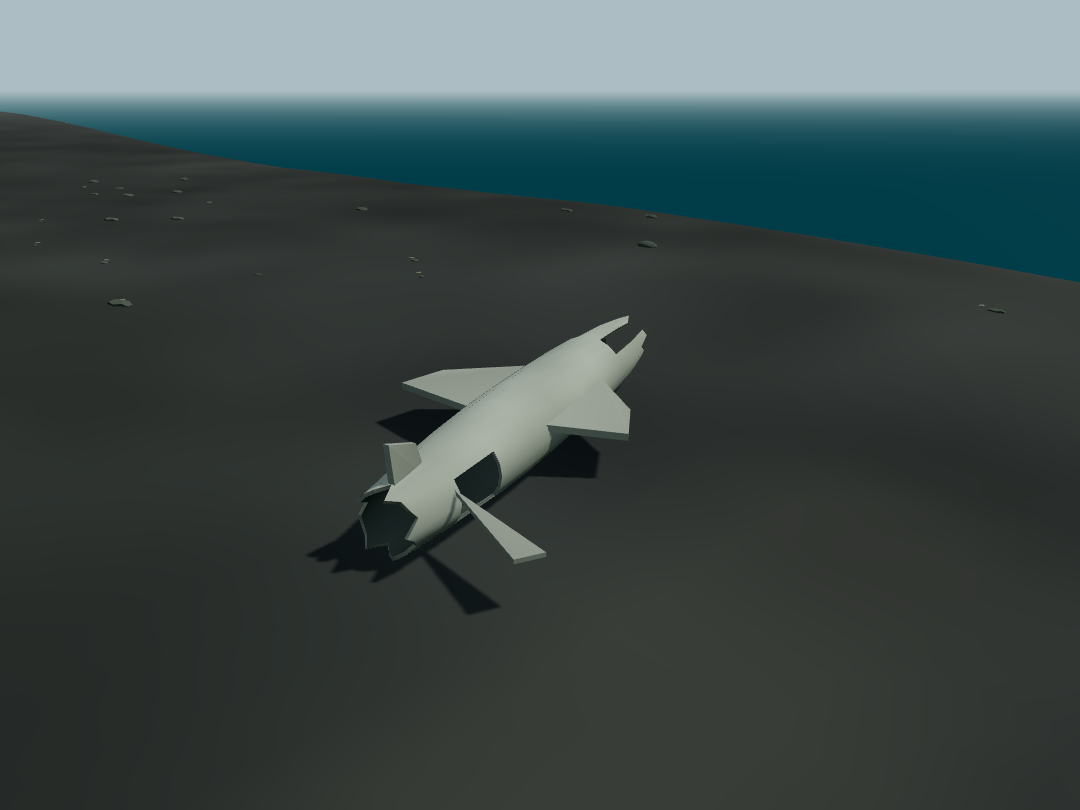
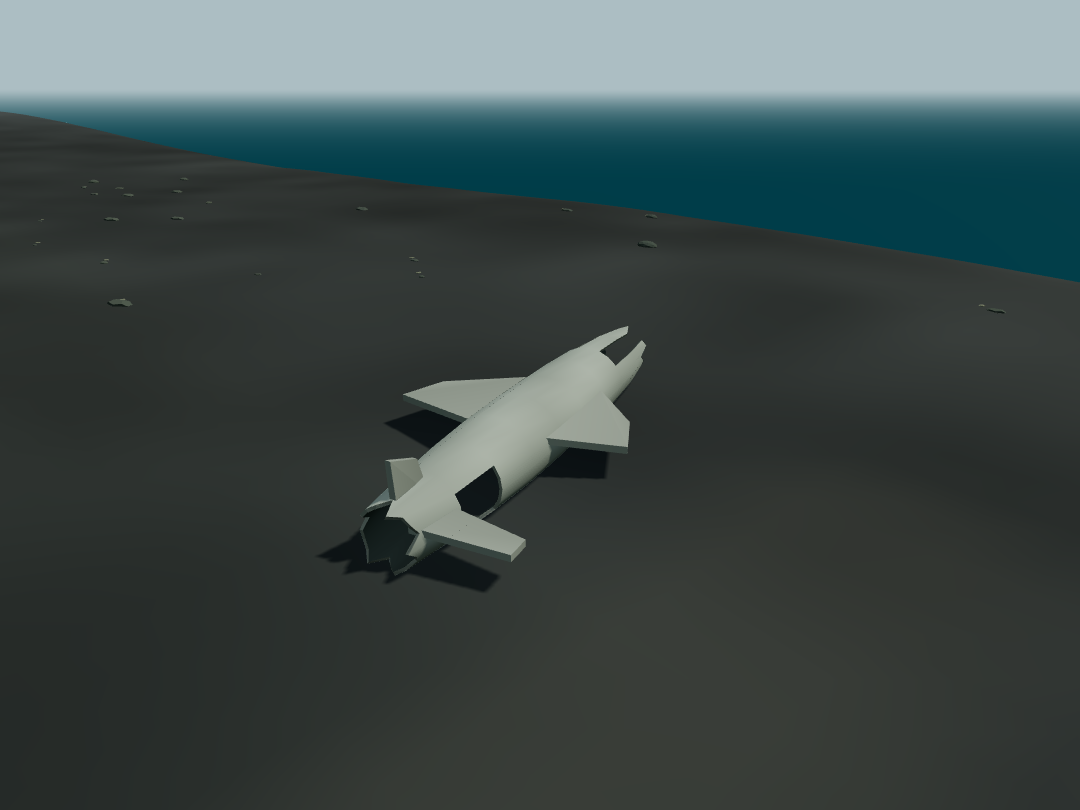
Refine Iceland wreck grounding and coastal surface cues

Changed region(s): [[0.3361, 0.3704, 0.6111, 0.7716], [0.3056, 0.6481, 0.3361, 0.7099], [0.3361, 0.7099, 0.3667, 0.7407]]

diff --git a/tests/browser/iceland.spec.ts b/tests/browser/iceland.spec.ts
@@ -109,6 +109,22 @@ test('Sólheimasandur sandur and wreck are visible and the approach drives both 
   expect((await drive(page, [...SOLHEIMASANDUR_APPROACH].reverse())).depth).toBe(0);
   expect(errors).toEqual([]);
 });
+test('Sólheimasandur wreck sits in the sand with an attached rear stabilizer', async ({ page }, info) => {
+  await page.goto('/?area=iceland&start=solheimasandur');
+  await expect(page.locator('#start')).toBeEnabled({ timeout: 30000 });
+  await page.locator('#start').click();
+  await page.evaluate(async view => (window as unknown as { __ROAMER__: Game }).__ROAMER__.setPhotoView(view), {
+    position: { x: -382, y: 8, z: 628 }, target: { x: -368, y: 5.5, z: 630 }, fov: 48,
+  });
+  await page.locator('#photo-ui').click();
+  await page.waitForTimeout(400);
+  await page.screenshot({ path: info.outputPath('solheimasandur-wreck-rear-low.png') });
+  await page.evaluate(async view => (window as unknown as { __ROAMER__: Game }).__ROAMER__.setPhotoView(view), {
+    position: { x: -385, y: 18, z: 616 }, target: { x: -365, y: 5.5, z: 635 }, fov: 55,
+  });
+  await page.waitForTimeout(400);
+  await page.screenshot({ path: info.outputPath('solheimasandur-wreck-overhead.png') });
+});
 test('Iceland regional start URLs open the chosen region and reset returns to the nearest start', async ({ page }) => {
   await page.goto('/?area=iceland&start=solheimasandur');
   await expect(page.locator('#start')).toBeEnabled({ timeout: 30000 });
@@ -230,10 +246,15 @@ test('Ring Road drives across southern, eastern, northern and western chunk boun
 });
 
 
-test('Iceland road HUD distinguishes asphalt, gravel and the river', async ({ page }) => {
+test('Iceland HUD distinguishes asphalt, gravel, river, sea and dark sand', async ({ page }) => {
   await boot(page);
-  for (const [x, z, label] of [[-531, 530, 'Asphalt'], [-490, 555, 'Packed dirt'], [-535, 585, 'Glacial river']] as const) {
+  for (const [x, z, label] of [[-531, 530, 'Asphalt'], [-490, 555, 'Packed dirt'], [-535, 585, 'Glacial river'],
+    [-450, 740, 'Deep sea'],
+    [-388, 603, 'Coastal sand']] as const) {
     await page.evaluate(async ({ x, z }) => (window as unknown as { __ROAMER__: Game }).__ROAMER__.placeVehicle(x, z, 0), { x, z });
     await expect(page.locator('#surface-label')).toHaveText(label);
+    if (label === 'Asphalt')
+      expect(await page.locator('#surface i').evaluate(el => getComputedStyle(el).backgroundColor)).toBe('rgb(114, 119, 117)');
   }
+  expect(await page.locator('#surface i').evaluate(el => getComputedStyle(el).backgroundColor)).toBe('rgb(74, 77, 74)');
 });

diff --git a/src/game/iceland-wreck.ts b/src/game/iceland-wreck.ts
@@ -5,6 +5,7 @@ import { SOLHEIMASANDUR_WRECK } from './iceland-sandur';
 type Emit = (geometry: THREE.BufferGeometry, material: THREE.Material, name: string) => void;
 type Skin = 'outer' | 'inner' | 'edge' | 'wing';
 type Ring = { outer: THREE.Vector3[]; inner: THREE.Vector3[] };
+export const SOLHEIMASANDUR_BURIAL = 0.52;
 
 /** A thin closed wall volume, including real openings and capped torn edges. */
 function shell(rows: Ring[], present: (row: number, side: number) => boolean, add: (g: THREE.BufferGeometry, skin: Skin) => void) {
@@ -62,7 +63,8 @@ export function addSolheimasandurWreck(emit: Emit) {
     const g = geometry.index ? geometry.toNonIndexed() : geometry.clone(); geometry.dispose();
     g.deleteAttribute('uv');
     if (!g.hasAttribute('normal')) g.computeVertexNormals();
-    g.rotateY(SOLHEIMASANDUR_WRECK.turn).translate(SOLHEIMASANDUR_WRECK.x, SOLHEIMASANDUR_WRECK.y, SOLHEIMASANDUR_WRECK.z);
+    g.rotateY(SOLHEIMASANDUR_WRECK.turn).translate(SOLHEIMASANDUR_WRECK.x,
+      SOLHEIMASANDUR_WRECK.y - SOLHEIMASANDUR_BURIAL, SOLHEIMASANDUR_WRECK.z);
     const p = g.getAttribute('position'), colors = new Float32Array(p.count * 3);
     for (let i = 0; i < p.count; i++) {
       const weather = 0.78 + 0.17 * Math.sin(p.getX(i) * 1.17 + p.getZ(i) * 0.83) ** 2;
@@ -97,6 +99,10 @@ export function addSolheimasandurWreck(emit: Emit) {
   // A low ragged tail stump and one surviving stabiliser make the profile legible.
   add(plate([[-0.16, 2.2, -7.6], [0.16, 2.2, -7.6], [-0.12, 2.5, -9.1], [0.12, 2.5, -9.1],
     [-0.1, 4.05, -9.2], [0.1, 4.05, -9.2], [-0.08, 3.55, -7.95], [0.08, 3.55, -7.95]]), 'wing', 'torn tail');
-  add(plate([[-1.1, 1.95, -7.6], [-1.1, 2.1, -7.6], [-5.0, 1.8, -9.0], [-5.0, 1.95, -9.0],
-    [-4.4, 1.8, -9.7], [-4.4, 1.95, -9.7]]), 'wing', 'tailplane fragment');
+  // A short trapezoid joins the intact aft shell behind the lower side tear.
+  // Both inboard corners sit within the fuselage, well clear of that opening.
+  add(plate([[-0.55, 1.8, -7.6], [-0.55, 2.04, -7.6],
+    [-0.55, 1.78, -9.2], [-0.55, 2.02, -9.2],
+    [-3.8, 1.64, -7.98], [-3.8, 1.88, -7.98],
+    [-3.8, 1.62, -8.82], [-3.8, 1.86, -8.82]]), 'wing', 'tailplane fragment');
 }

diff --git a/tests/iceland.test.ts b/tests/iceland.test.ts
@@ -11,7 +11,7 @@ import { Vehicle } from '../src/game/vehicle';
 import { buildSkogafossWater, FALL } from '../src/game/iceland-waterfall';
 import { disposeScene } from '../src/game/dispose';
 import { SOLHEIMASANDUR_APPROACH, SOLHEIMASANDUR_WRECK, solheimasandurApproachDistance } from '../src/game/iceland-sandur';
-import { addSolheimasandurWreck } from '../src/game/iceland-wreck';
+import { addSolheimasandurWreck, SOLHEIMASANDUR_BURIAL } from '../src/game/iceland-wreck';
 import { ICELAND_STARTS, nearestIcelandStart, icelandStartSpawn } from '../src/game/iceland-starts';
 before(async () => { await RAPIER.init(); });
 
@@ -153,8 +153,23 @@ test('Sólheimasandur wreck sits on dry sand off Route 1 and has finite open she
   });
   assert.ok(scene.children.length >= 7);
   const bounds = new THREE.Box3().setFromObject(scene);
-  assert.ok(bounds.min.y >= y && bounds.max.y < y + 6);
-  assert.ok(bounds.max.x - bounds.min.x > 12 && bounds.max.z - bounds.min.z > 16);
+  assert.ok(bounds.min.y < y - 0.3 && bounds.min.y > y - 0.8, 'lower fuselage is embedded in sand');
+  assert.ok(bounds.max.y < y + 6);
+  assert.ok(bounds.max.x - bounds.min.x > 11 && bounds.max.z - bounds.min.z > 16);
+  assert.ok(SOLHEIMASANDUR_BURIAL > 0.4);
+  const tailplane = scene.children.find(child => child.name.endsWith('tailplane fragment')) as THREE.Mesh;
+  assert.ok(tailplane);
+  const local = tailplane.geometry.attributes.position;
+  const rootZ: number[] = [];
+  const unrotate = new THREE.Matrix4().makeRotationY(-SOLHEIMASANDUR_WRECK.turn);
+  for (let i = 0; i < local.count; i++) {
+    const p = new THREE.Vector3(local.getX(i) - x, local.getY(i) - y + SOLHEIMASANDUR_BURIAL,
+      local.getZ(i) - z).applyMatrix4(unrotate);
+    if (p.x > -0.8 && p.x < 0 && p.z < -7.5 && p.z > -9.3) rootZ.push(p.z);
+  }
+  assert.ok(Math.max(...rootZ) - Math.min(...rootZ) > 1.5,
+    'rear stabilizer must join the fuselage along a broad root');
+  assert.ok(Math.max(...rootZ) < -7.5, 'stabilizer root stays aft of the lower side opening');
   for (const child of scene.children) {
     const positions = (child as THREE.Mesh).geometry.attributes.position;
     assert.ok(positions.count > 0);

diff --git a/src/main.ts b/src/main.ts
@@ -10,6 +10,7 @@ import { FixedClock } from './game/driving';
 import { NORTHERN_STARTS, nearestNorthernStart, regionalSpawn } from './game/regional-starts';
 import { MARS_STARTS, nearestMarsStart, marsSpawn } from './game/mars-terrain';
 import { ICELAND_STARTS, nearestIcelandStart, icelandStartSpawn } from './game/iceland-starts';
+import { icelandWaterHeight } from './game/iceland-terrain';
 import { marshWeight } from './game/northern-marsh';
 import { shoalsWaterRegion } from './game/northern-adventures';
 import { lakeShoreDistance, inletDistance, inletWidth } from './game/northern-watershed';
@@ -215,6 +216,7 @@ async function boot() {
     if (area.id === 'mars' && surface.id === 'rock') return 'Martian rock';
     if (surface.id === 'water') {
       if (area.id === 'samurai-village') return 'Shallow lake';
+      if (area.id === 'iceland' && icelandWaterHeight(vehicle.position.x, vehicle.position.z) === 0) return 'Deep sea';
       if (area.id === 'northern-reach' && shoalsWaterRegion(vehicle.position.x, vehicle.position.z)) return 'Coastal shallows';
       if (area.id === 'northern-reach' && marshWeight(vehicle.position.x, vehicle.position.z) > 0.2) return 'Marsh water';
       if (area.id === 'northern-reach' && lakeShoreDistance(vehicle.position.x, vehicle.position.z) < 0) return 'Great Lake';
@@ -971,6 +973,10 @@ async function boot() {
           surfaceCueTimer = window.setTimeout(() => surfaceHud.classList.remove('changed'), 750);
         }
       }
+      // Regional water names can change while the underlying handling surface
+      // stays "water" (for example, Skógá flowing into the Iceland sea).
+      const currentLabel = surfaceLabel();
+      if (element('surface-label').textContent !== currentLabel) element('surface-label').textContent = currentLabel;
       playingTime += Math.min(elapsed, 0.1);
       const fallFloor = Math.min(-12, area.surfaceHeight(vehicle.position.x, vehicle.position.z) - 15);
       if (vehicle.position.y < fallFloor) void reset().catch(showError);

diff --git a/src/styles.css b/src/styles.css
@@ -44,6 +44,7 @@ body:not(.playing) .navigation-instrument { opacity: 0; }
 .surface-indicator i { width: 9px; height: 9px; border-radius: 50%; background: #d7ae72; box-shadow: inset 0 0 0 1px #ffffff55; }
 .surface-indicator b { padding-left: 7px; border-left: 1px solid #ffffff55; color: #fff9e9c9; font-size: 7px; font-weight: 600; letter-spacing: .8px; }
 .surface-indicator.changed { transform: translateX(-50%) scale(1.12); }
+.surface-indicator[data-surface="asphalt"] i { background: #727775; }
 .surface-indicator[data-surface="grass"] i { background: #84a75e; }
 .surface-indicator[data-surface="ash"] i { background: #47545a; }
 .surface-indicator[data-surface="lava"] i { background: #252f33; }
@@ -55,6 +56,7 @@ body:not(.playing) .navigation-instrument { opacity: 0; }
 .surface-indicator[data-surface="mud"] i { background: #665744; }
 .surface-indicator[data-surface="rock"] i { background: #7b8582; }
 .surface-indicator[data-surface="sand"] i { background: #bca77e; }
+body[data-area="iceland"] .surface-indicator[data-surface="sand"] i { background: #4a4d4a; }
 body:not(.playing) .surface-indicator { opacity: 0; }
 .controls { position: absolute; left: max(32px, env(safe-area-inset-left)); right: max(32px, env(safe-area-inset-right)); bottom: max(30px, env(safe-area-inset-bottom)); display: flex; justify-content: space-between; align-items: flex-end; pointer-events: none; }
 .steering-cluster, .pedal-cluster { pointer-events: auto; }

diff --git a/tests/driving-feedback.test.ts b/tests/driving-feedback.test.ts
@@ -40,6 +40,19 @@ test('Mars emits dark basalt in the tubes and retains rusty rock particles elsew
   }
 });
 
+test('Iceland black sand keeps sand handling but emits dark particles', () => {
+  const scene = new THREE.Scene();
+  const effects = new TerrainEffects(scene, () => null, () => 0, AREAS.iceland.particleColors);
+  const car = vehicle();
+  car.terrainWheels.forEach(wheel => { wheel.surface = SURFACES.sand; });
+  for (let i = 0; i < 5; i++) effects.update(0.1, car);
+  assert.ok(effects.count > 0);
+  const mesh = scene.getObjectByName('terrain-particles') as THREE.InstancedMesh;
+  const color = new THREE.Color(); mesh.getColorAt(0, color);
+  assert.equal(color.getHexString(), '4a4d4a');
+  effects.dispose();
+});
+
 test('ground marks require contact and movement, stay bounded, expire, and dispose', () => {
   const scene=new THREE.Scene(), marks=new GroundEffects(scene,()=>0,()=>0.2), car=vehicle();
   for(let i=0;i<600;i++) { car.terrainWheels.forEach(w=>{w.position.z+=0.4;}); marks.update(1/60,car); }

diff --git a/src/game/areas.ts b/src/game/areas.ts
@@ -72,7 +72,7 @@ export const AREAS: Record<AreaId, Area> = {
     spawn: icelandSpawn(), spawnHeading: Math.atan2(46, 43), half: ICELAND_HALF, climbingPower: 1.45,
     sky: '#acbec3', fogNear: 110, fogFar: 430,
     surfaceHeight: icelandDrivingHeight, waterHeight: icelandWaterHeight, surfaceAt: icelandSurfaceAt,
-    particleColors: { dirt: () => '#7c796b' },
+    particleColors: { dirt: () => '#7c796b', sand: '#4a4d4a' },
     build: (scene, world, onError) => new IcelandStreamingRuntime(scene, world, new IcelandWorkerTransport(), onError),
   },
   mars: {

diff --git a/WORLD_BUILD_GUIDE.md b/WORLD_BUILD_GUIDE.md
@@ -55,6 +55,7 @@ design/progress entry and the current implementation before reusing it.
 | Landmarks looked generic or read only from overhead. | Use an authored silhouette and material hierarchy; inspect arrival, feature and overlook from car height. Large structures need near and distant forms with the same recognizable outline. | [Mars design rules](artifacts/mars/DESIGN.md), [Dish Ridge](artifacts/mars/DISH_RIDGE.md), [Northern region descriptions](README.md#northern-reach--windstone-ridge-and-ochre-terraces) |
 | Sloped roads, arches and tubes looked passable but could trap or jump the car. | Grade the whole width and both approaches; use the visible triangle surface as collision, leave actual open passages, and drive both directions with the real vehicle. Diagnose wheel contacts before changing physics. | [Mars plan region gate](MARS_BUILD_PLAN.md), [Keyhole](artifacts/mars/KEYHOLE_BADLANDS.md), [Lava Tubes](artifacts/mars/LAVA_TUBES.md), [Northern beach-route tests](tests/northern-west.test.ts) |
 | Floating or repeated Mars rocks; steep-ground props stretched into plinths. | Sample the entire footprint, bury supports, use matching collision, and vary placement, omission, size and form independently. Move technical props to level ground when terrain-conforming foundations become implausible. | [Mars feedback 1](artifacts/mars/FEEDBACK1_RESPONSE.md), [relay review](MARS_PROGRESS.md), [Northern prop tests](tests/northern-west.test.ts) |
+| The Sólheimasandur wreck looked placed on top of a flat sand plate; its rear stabilizer touched the hull at one corner, then crossed a side opening. | Embed the lower hull in the sampled ground and overlap appendage roots with intact solid shell, clear of authored apertures. Review large props from low side views as well as overhead. | [Iceland wreck](src/game/iceland-wreck.ts), [geometry check](tests/iceland.test.ts), [low-view browser capture](tests/browser/iceland.spec.ts) |
 | Rim waves, terrain stripes and visible coarse/detailed joins. | Replace periodic silhouette noise with irregular broad forms and multi-scale colour variation. Keep detailed boundary vertices in coarse chunks and test edge topology and drive-through captures. | [Mars feedback 1](artifacts/mars/FEEDBACK1_RESPONSE.md), [Northern streaming tests](tests/northern-streaming.test.ts) |
 | Glass and water edges followed whole terrain triangles, giving teeth, pale gaps or false dark fringes. | Clip the visual to its true contour. Keep foreground and background surfaces under explicit ownership; remove redundant tint/shadows and check the overlap from low and high cameras. | [Mars Glassfall revisions](MARS_PROGRESS.md), [Northern river clipping](src/game/northern-terrain.ts), [Iceland mouth history](ICELAND_PROGRESS.md) |
 | Northern river and lake banks separated from the water or made fords hard to read. | Shape bed, shallow shelf and bank together; sample the rendered collision triangles for water level/depth and clip the waterline. Keep two-way ford approaches dry enough to enter and leave. | [Alder watershed](src/game/northern-watershed.ts), [watershed tests](tests/northern-watershed.test.ts), [README](README.md#northern-reach--great-lake-and-alder-river) |

diff --git a/ICELAND_PROGRESS.md b/ICELAND_PROGRESS.md
@@ -1,5 +1,26 @@
 # Iceland implementation progress
 
+## Sólheimasandur wreck and surface-cue refinement — 2026-10-18
+
+- Lowered the wreck shell 0.52 m into its prepared sand footprint so the lower
+  fuselage is buried. Rebuilt the rear stabilizer as a short trapezoid rooted
+  behind the lower side opening. The initial broader repair overlapped that
+  opening and looked like an arrow sign; the user's close-up exposed it.
+- Iceland sand retains its sand driving profile, with dark gray particles and
+  HUD dot. Asphalt's dot now matches its gray pavement/particles. Sea-level
+  Iceland water shows **Deep sea**, while the Skógá still shows **Glacial river**;
+  the HUD can update the name when both use the same water handling profile.
+- Focused wreck and particle unit tests passed. The Sólheimasandur drive and
+  black-sand HUD checks passed in Chromium and WebKit (4/4). Final low and
+  overhead wreck captures passed in both engines (2/2), as did the final HUD
+  check including asphalt and sea (2/2). `npm run build` passed. No full/PWA
+  suite was run for these local visual and label changes.
+- Updated captures in `artifacts/iceland/solheimasandur/` and recorded the
+  large-prop grounding lesson in `WORLD_BUILD_GUIDE.md`.
+
+**Next:** continue east from Sólheimasandur to Reynisfjara, including the
+joining shoreline/cliff and distinct basalt-column beach silhouette.
+
 ## Iceland regional start shortcuts — 2026-10-18
 
 - Added `?area=iceland&start=skogafoss` and
